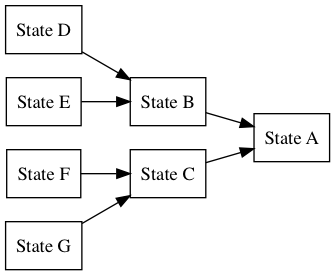
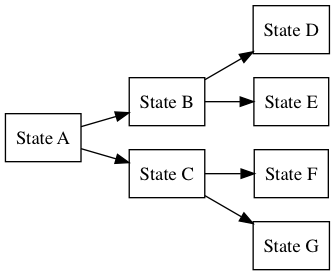
Changes the directionality of the arrows between states and their prerequisites

diff --git a/spec/acceptance/mikado_graph_generator_spec.rb b/spec/acceptance/mikado_graph_generator_spec.rb
@@ -8,8 +8,8 @@ RSpec.describe "mikado graph generator" do
       did_not_error(status)
       expect(output).to include(
         "shape=box",
-        '"State B" -> "State A"',
-        '"State C" -> "State A"'
+        '"State A" -> "State B"',
+        '"State A" -> "State C"'
       )
     end
 
@@ -20,8 +20,8 @@ RSpec.describe "mikado graph generator" do
       expect(output).to include(
         "shape=box",
         "rankdir=LR",
-        '"State B" -> "State A"',
-        '"State C" -> "State A"'
+        '"State A" -> "State B"',
+        '"State A" -> "State C"'
       )
     end
 
@@ -31,12 +31,12 @@ RSpec.describe "mikado graph generator" do
       did_not_error(status)
       expect(output).to include(
         "shape=box",
-        '"State B" -> "State A"',
-        '"State D" -> "State B"',
-        '"State E" -> "State B"',
-        '"State C" -> "State A"',
-        '"State F" -> "State C"',
-        '"State G" -> "State C"'
+        '"State A" -> "State B"',
+        '"State B" -> "State D"',
+        '"State B" -> "State E"',
+        '"State A" -> "State C"',
+        '"State C" -> "State F"',
+        '"State C" -> "State G"'
       )
     end
   end

diff --git a/lib/mikado_graph/generator.rb b/lib/mikado_graph/generator.rb
@@ -43,7 +43,7 @@ module MikadoGraph
     def add_dependency(state, dependent_state)
       state_node = graph.add_nodes(state.name)
       dependent_state_node = graph.add_nodes(dependent_state.name)
-      graph.add_edges(dependent_state_node, state_node)
+      graph.add_edges(state_node, dependent_state_node)
     end
 
     def arrange_graph_direction(options)
